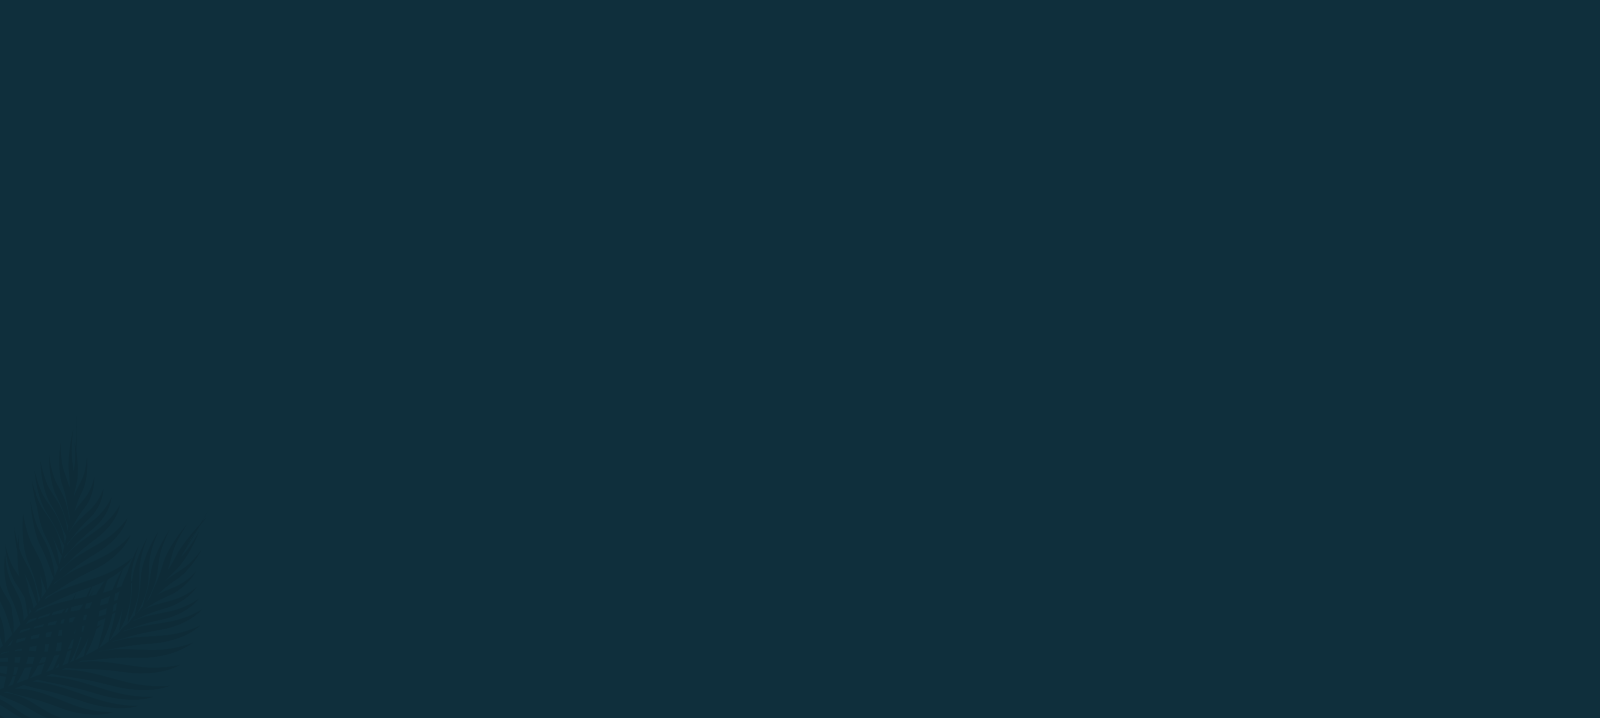
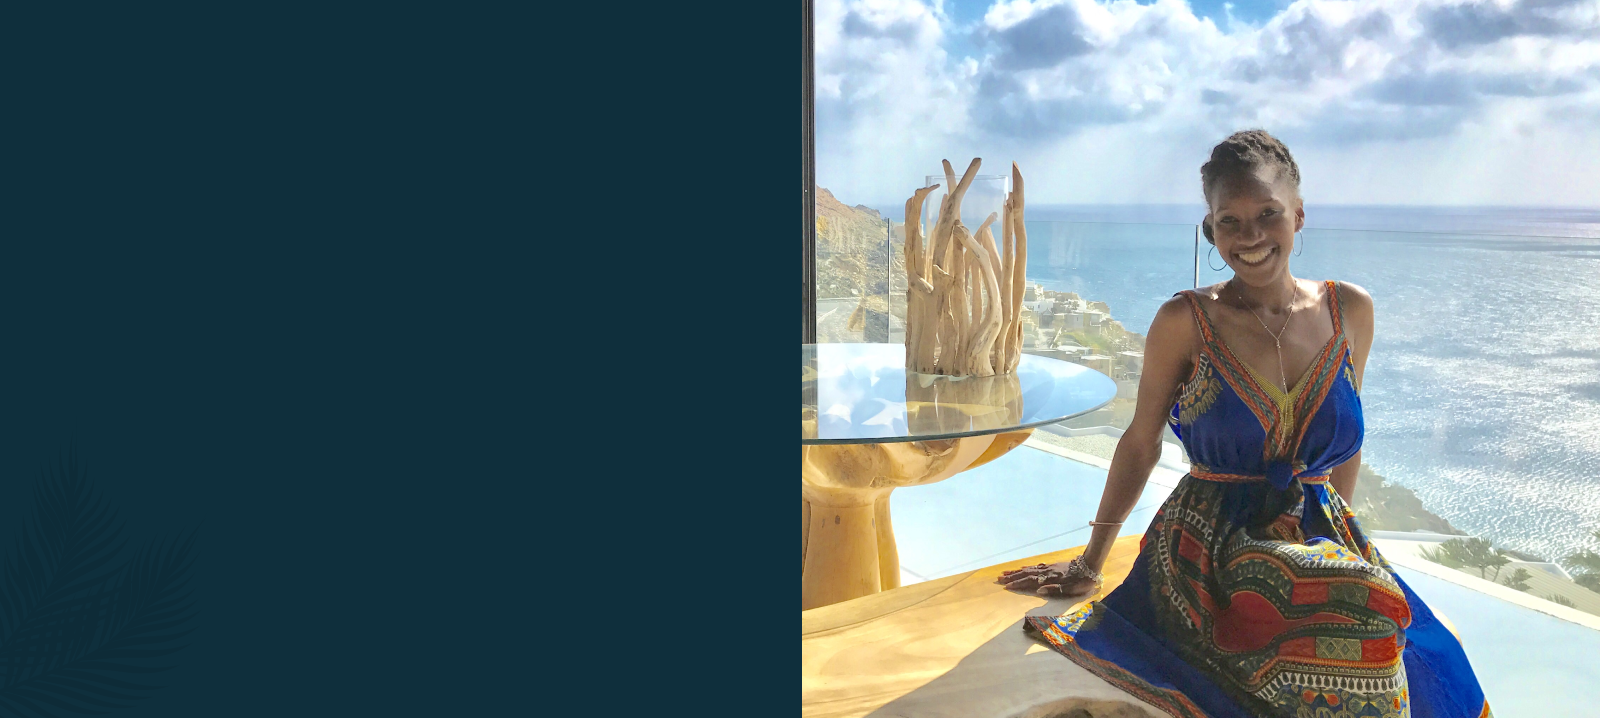
error fix

diff --git a/src/Components/GetStarted/GetStarted.jsx b/src/Components/GetStarted/GetStarted.jsx
@@ -7,72 +7,65 @@ import Button2Component from '../Button2Component/Button2Component'
 function GetStarted() {
   return (
     <div className="get-started-wrapper">
-       <Container>
-        <Row>
-            <Col md={6} className="get-started-left">
-                <h2>Get started today</h2>
-                <p>Lorem ipsum dolor sit amet, consectetur adipiscing elitusce convallis</p>
-                <div className="get-started-form">
-                    <Form className="custom-form-wrapper">
-                        <Row>
-                            <Col md={6}>
-                                <Form.Group className="mb-2">
-                                    <Form.Control 
-                                        type="text" 
-                                        placeholder="First name" 
-                                        className="custom-form-control"
-                                    />
-                                </Form.Group>
-                            </Col>
-                            <Col md={6}>
-                                <Form.Group className="mb-2">
-                                    <Form.Control
-                                        type="text" 
-                                        placeholder="Last name" 
-                                        className="custom-form-control"
-                                    />
-                                </Form.Group>
-                            </Col>
-                            <Col md={6}>
-                                <Form.Group className="mb-2">
-                                    <Form.Control
-                                        type="tel" 
-                                        placeholder="Phone" 
-                                        className="custom-form-control"
-                                    />
-                                </Form.Group>
-                            </Col>
-                            <Col md={6}>
-                                <Form.Group className="mb-2">
-                                    <Form.Control
-                                        type="email" 
-                                        placeholder="Email" 
-                                        className="custom-form-control"
-                                    />
-                                </Form.Group>
-                            </Col>
-                            <Col md={12}>
-                                <Form.Group className="mb-2">
-                                    <Form.Control 
-                                        as="textarea" 
-                                        rows={3} 
-                                        placeholder="Message" 
-                                        className="custom-form-control custom-message-box" 
-                                    />
-                                </Form.Group>
-                            </Col>
-                        </Row>
-                    </Form>
-                    <div className="button-wrapper">
-                        <Button2Component text="Submit Now" path="/contact" />
-                    </div>
+       <div className="get-started-left">
+            <h2>Get started today</h2>
+            <p>Lorem ipsum dolor sit amet, consectetur adipiscing elitusce convallis</p>
+            <div className="get-started-form">
+                <Form className="custom-form-wrapper">
+                    <Row>
+                        <Col md={6}>
+                            <Form.Group className="mb-2">
+                                <Form.Control 
+                                    type="text" 
+                                    placeholder="First name" 
+                                    className="custom-form-control"
+                                />
+                            </Form.Group>
+                        </Col>
+                        <Col md={6}>
+                            <Form.Group className="mb-2">
+                                <Form.Control
+                                    type="text" 
+                                    placeholder="Last name" 
+                                    className="custom-form-control"
+                                />
+                            </Form.Group>
+                        </Col>
+                        <Col md={6}>
+                            <Form.Group className="mb-2">
+                                <Form.Control
+                                    type="tel" 
+                                    placeholder="Phone" 
+                                    className="custom-form-control"
+                                />
+                            </Form.Group>
+                        </Col>
+                        <Col md={6}>
+                            <Form.Group className="mb-2">
+                                <Form.Control
+                                    type="email" 
+                                    placeholder="Email" 
+                                    className="custom-form-control"
+                                />
+                            </Form.Group>
+                        </Col>
+                        <Col md={12}>
+                            <Form.Group className="mb-2">
+                                <Form.Control 
+                                    as="textarea" 
+                                    rows={3} 
+                                    placeholder="Message" 
+                                    className="custom-form-control custom-message-box" 
+                                />
+                            </Form.Group>
+                        </Col>
+                    </Row>
+                </Form>
+                <div className="button-wrapper">
+                    <Button2Component text="Submit Now" path="/contact" />
                 </div>
-            </Col>
-            <Col md={6} className="get-started-right">
-                <img src={bgImg} alt="Get Started" className="img-fluid" />
-            </Col>
-        </Row>
-       </Container>
+            </div>
+        </div>
     </div>
   )
 }

diff --git a/src/Components/AboutComponent/AboutComponent.jsx b/src/Components/AboutComponent/AboutComponent.jsx
@@ -11,40 +11,36 @@ function AboutComponent() {
     <h2 className="about-heading">About me</h2>
     <div className="about-cover">
       <div className="about-content">
-        <div className="Container">
-          <Row>
-            <Col md={6} className="about-left">
-              <img src={img1} alt="about" />
-            </Col>
-            <Col md={6} className="about-right">
-              <h6>Hello, and welcome!</h6>
+        <div className="about-left">
+          <img src={img1} alt="about" />
+        </div>
+        <div className="about-right">
+          <h6>Hello, and welcome!</h6>
 
-              <div className="about-title">
-                <h6>I am Jacqueline Rogers</h6>
-              </div>
+          <div className="about-title">
+            <h6>I am Jacqueline Rogers</h6>
+          </div>
 
-              <p className="about-text">
-                The Owner and Travel Advisor of Escape Beyond Travel. With a background in education and 
-                a burning desire to create extraordinary experiences, I founded this company with a clear
-                purpose in mind: to offer a gateway to escape the ordinary and venture beyond the boundaries
-                of everyday life.
-              </p>
+          <p className="about-text">
+            The Owner and Travel Advisor of Escape Beyond Travel. With a background in education and 
+            a burning desire to create extraordinary experiences, I founded this company with a clear
+            purpose in mind: to offer a gateway to escape the ordinary and venture beyond the boundaries
+            of everyday life.
+          </p>
 
-              <p className="about-text">
-                As a former educator, I witnessed firsthand the immense value of broadening one's horizons
-                and embracing new perspectives. I believe that travel has the power to ignite our curiosity, 
-                inspire personal growth, and provide a much-needed respite from our demanding lives. That is 
-                why I decided to channel my passion for exploration into creating a travel agency that goes 
-                beyond traditional itineraries and embraces the concept of transformative journeys.
-              </p>
+          <p className="about-text">
+            As a former educator, I witnessed firsthand the immense value of broadening one's horizons
+            and embracing new perspectives. I believe that travel has the power to ignite our curiosity, 
+            inspire personal growth, and provide a much-needed respite from our demanding lives. That is 
+            why I decided to channel my passion for exploration into creating a travel agency that goes 
+            beyond traditional itineraries and embraces the concept of transformative journeys.
+          </p>
 
-              {/* BUTTONS */}
-              <div className="about-buttons">
-                <Button2Component text="Learn More" path="/destinations" />
-                <button className="linkedin-btn">in</button>
-              </div>
-            </Col>
-          </Row>
+          {/* BUTTONS */}
+          <div className="about-buttons">
+            <Button2Component text="Learn More" path="/destinations" />
+            <button className="linkedin-btn">in</button>
+          </div>
         </div>
       </div>
     </div>

diff --git a/src/Components/GetStarted/GetStarted.css b/src/Components/GetStarted/GetStarted.css
@@ -1,38 +1,42 @@
 .img-fluid{
-    max-width: fit-content;
+  max-width: fit-content;
+}
+
+.get-started-wrapper{
+  max-width: 600px;
 }
 
 
 .get-started-left h2{
-    font-family: "Sawarabi Mincho", serif;
-    font-size: 40px;
-    font-weight: 400;
-    color: #ffffff;
-    padding-top: 100px;
+  font-family: "Sawarabi Mincho", serif;
+  font-size: 40px;
+  font-weight: 400;
+  color: #ffffff;
+  padding-top: 100px;
 }
 
 .get-started-left p{
-    line-height: 25px;
-    font-family:"kumbh Sans", sans-serif;
-    font-weight: 400;
-    font-size: 15px;
-    color: #ffffff;
-    padding-top: 20px;
-    padding-bottom: 20px;
+  line-height: 25px;
+  font-family:"kumbh Sans", sans-serif;
+  font-weight: 400;
+  font-size: 15px;
+  color: #ffffff;
+  padding-top: 20px;
+  padding-bottom: 20px;
 }
 
 .custom-form-control {
-    background: transparent;
-    border: none !important;
-    border-bottom: 1px solid rgba(255, 255, 255, 0.2) !important;
-    border-radius: 0 !important;
-    color: #ffffff !important;
-    padding-left: 0 !important;
-    padding-bottom: 20px !important;
-    box-shadow: none;
-    font-family:"Sawarabi Mincho", serif;
-    font-size: 16px;
-    font-weight: 400;
+  background: transparent;
+  border: none !important;
+  border-bottom: 1px solid rgba(255, 255, 255, 0.2) !important;
+  border-radius: 0 !important;
+  color: #ffffff !important;
+  padding-left: 0 !important;
+  padding-bottom: 20px !important;
+  box-shadow: none;
+  font-family:"Sawarabi Mincho", serif;
+  font-size: 16px;
+  font-weight: 400;
 }
 
 .custom-form-control::placeholder {

diff --git a/src/Components/AboutComponent/AboutComponent.css b/src/Components/AboutComponent/AboutComponent.css
@@ -20,6 +20,7 @@ h2.about-heading {
     max-height: 601px;
     padding: 40px 0px 40px 0px;
     display: flex;
+    flex-wrap: wrap;
     align-items: center;
     justify-content: right;
     width: 85%;
@@ -28,16 +29,10 @@ h2.about-heading {
 .about-left img {
     height: 497px;
     width: 85%;
-    margin-left: -100px;
 }
 
 
 /* RIGHT CONTENT */
-.about-right {
-    flex: 1;
-    margin-right: 50px;
-    margin-left: -50px;
-}
 
 .about-right h6{
     font-family: 'kumbh-sans', sans-serif;
